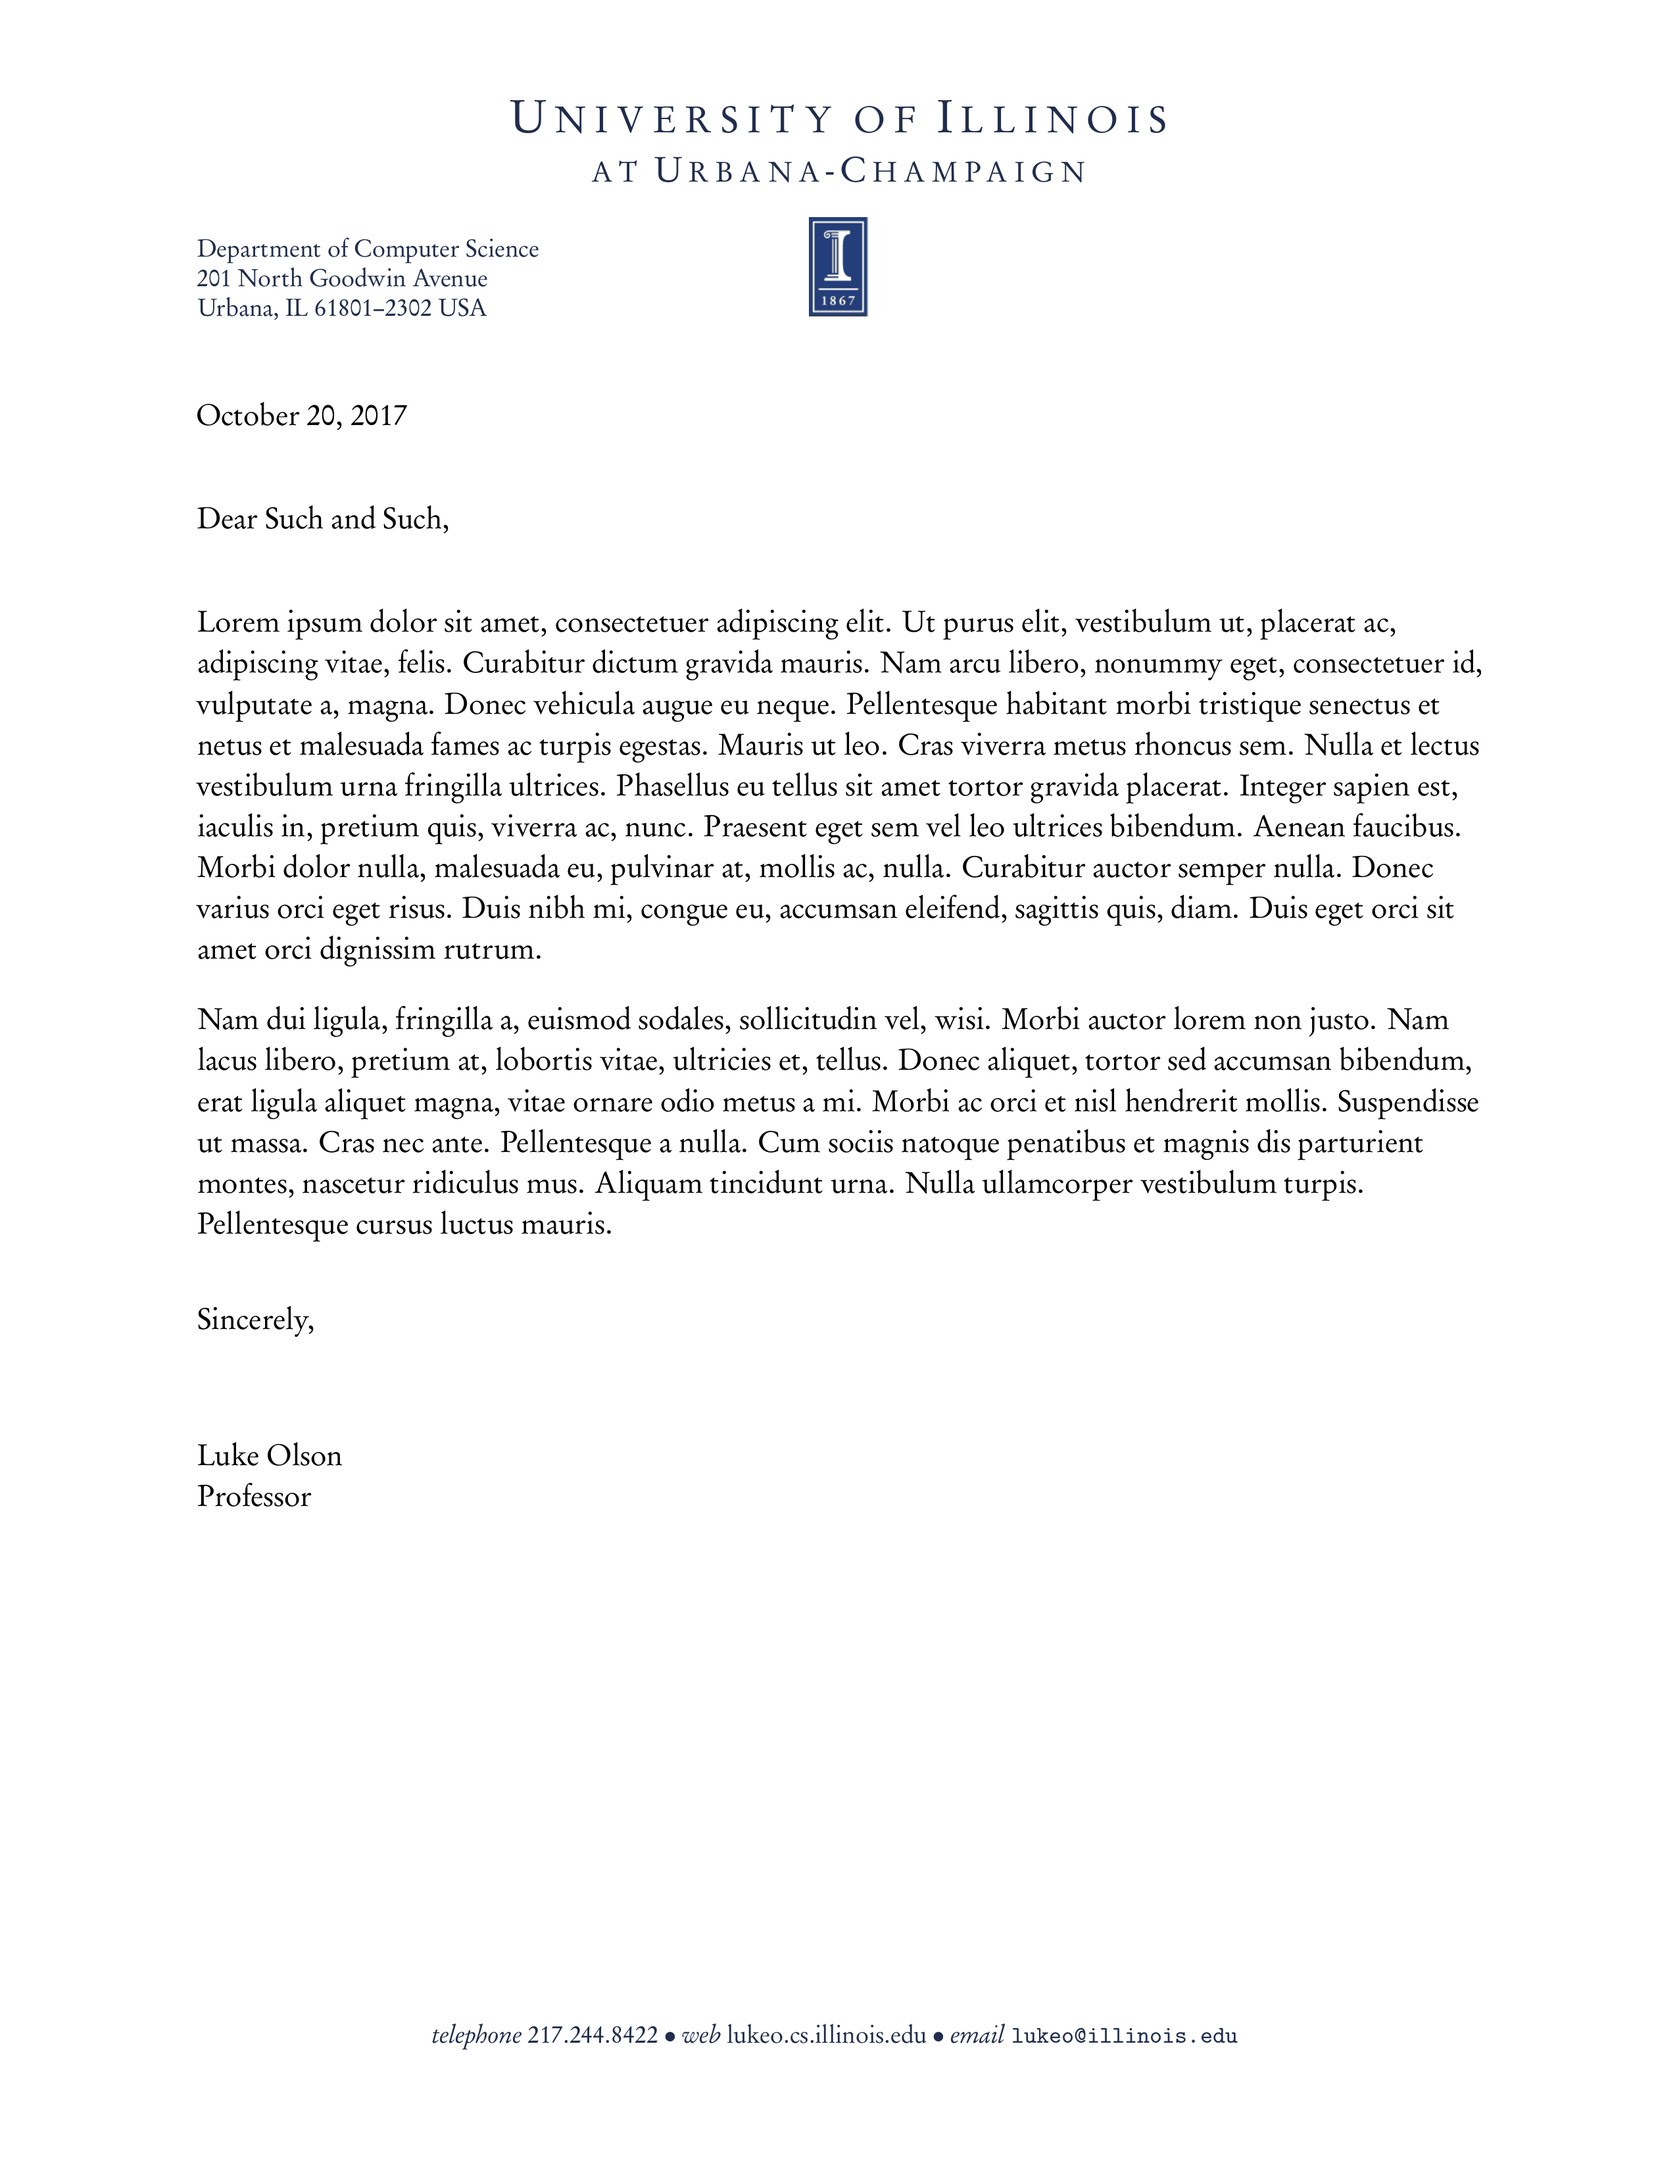
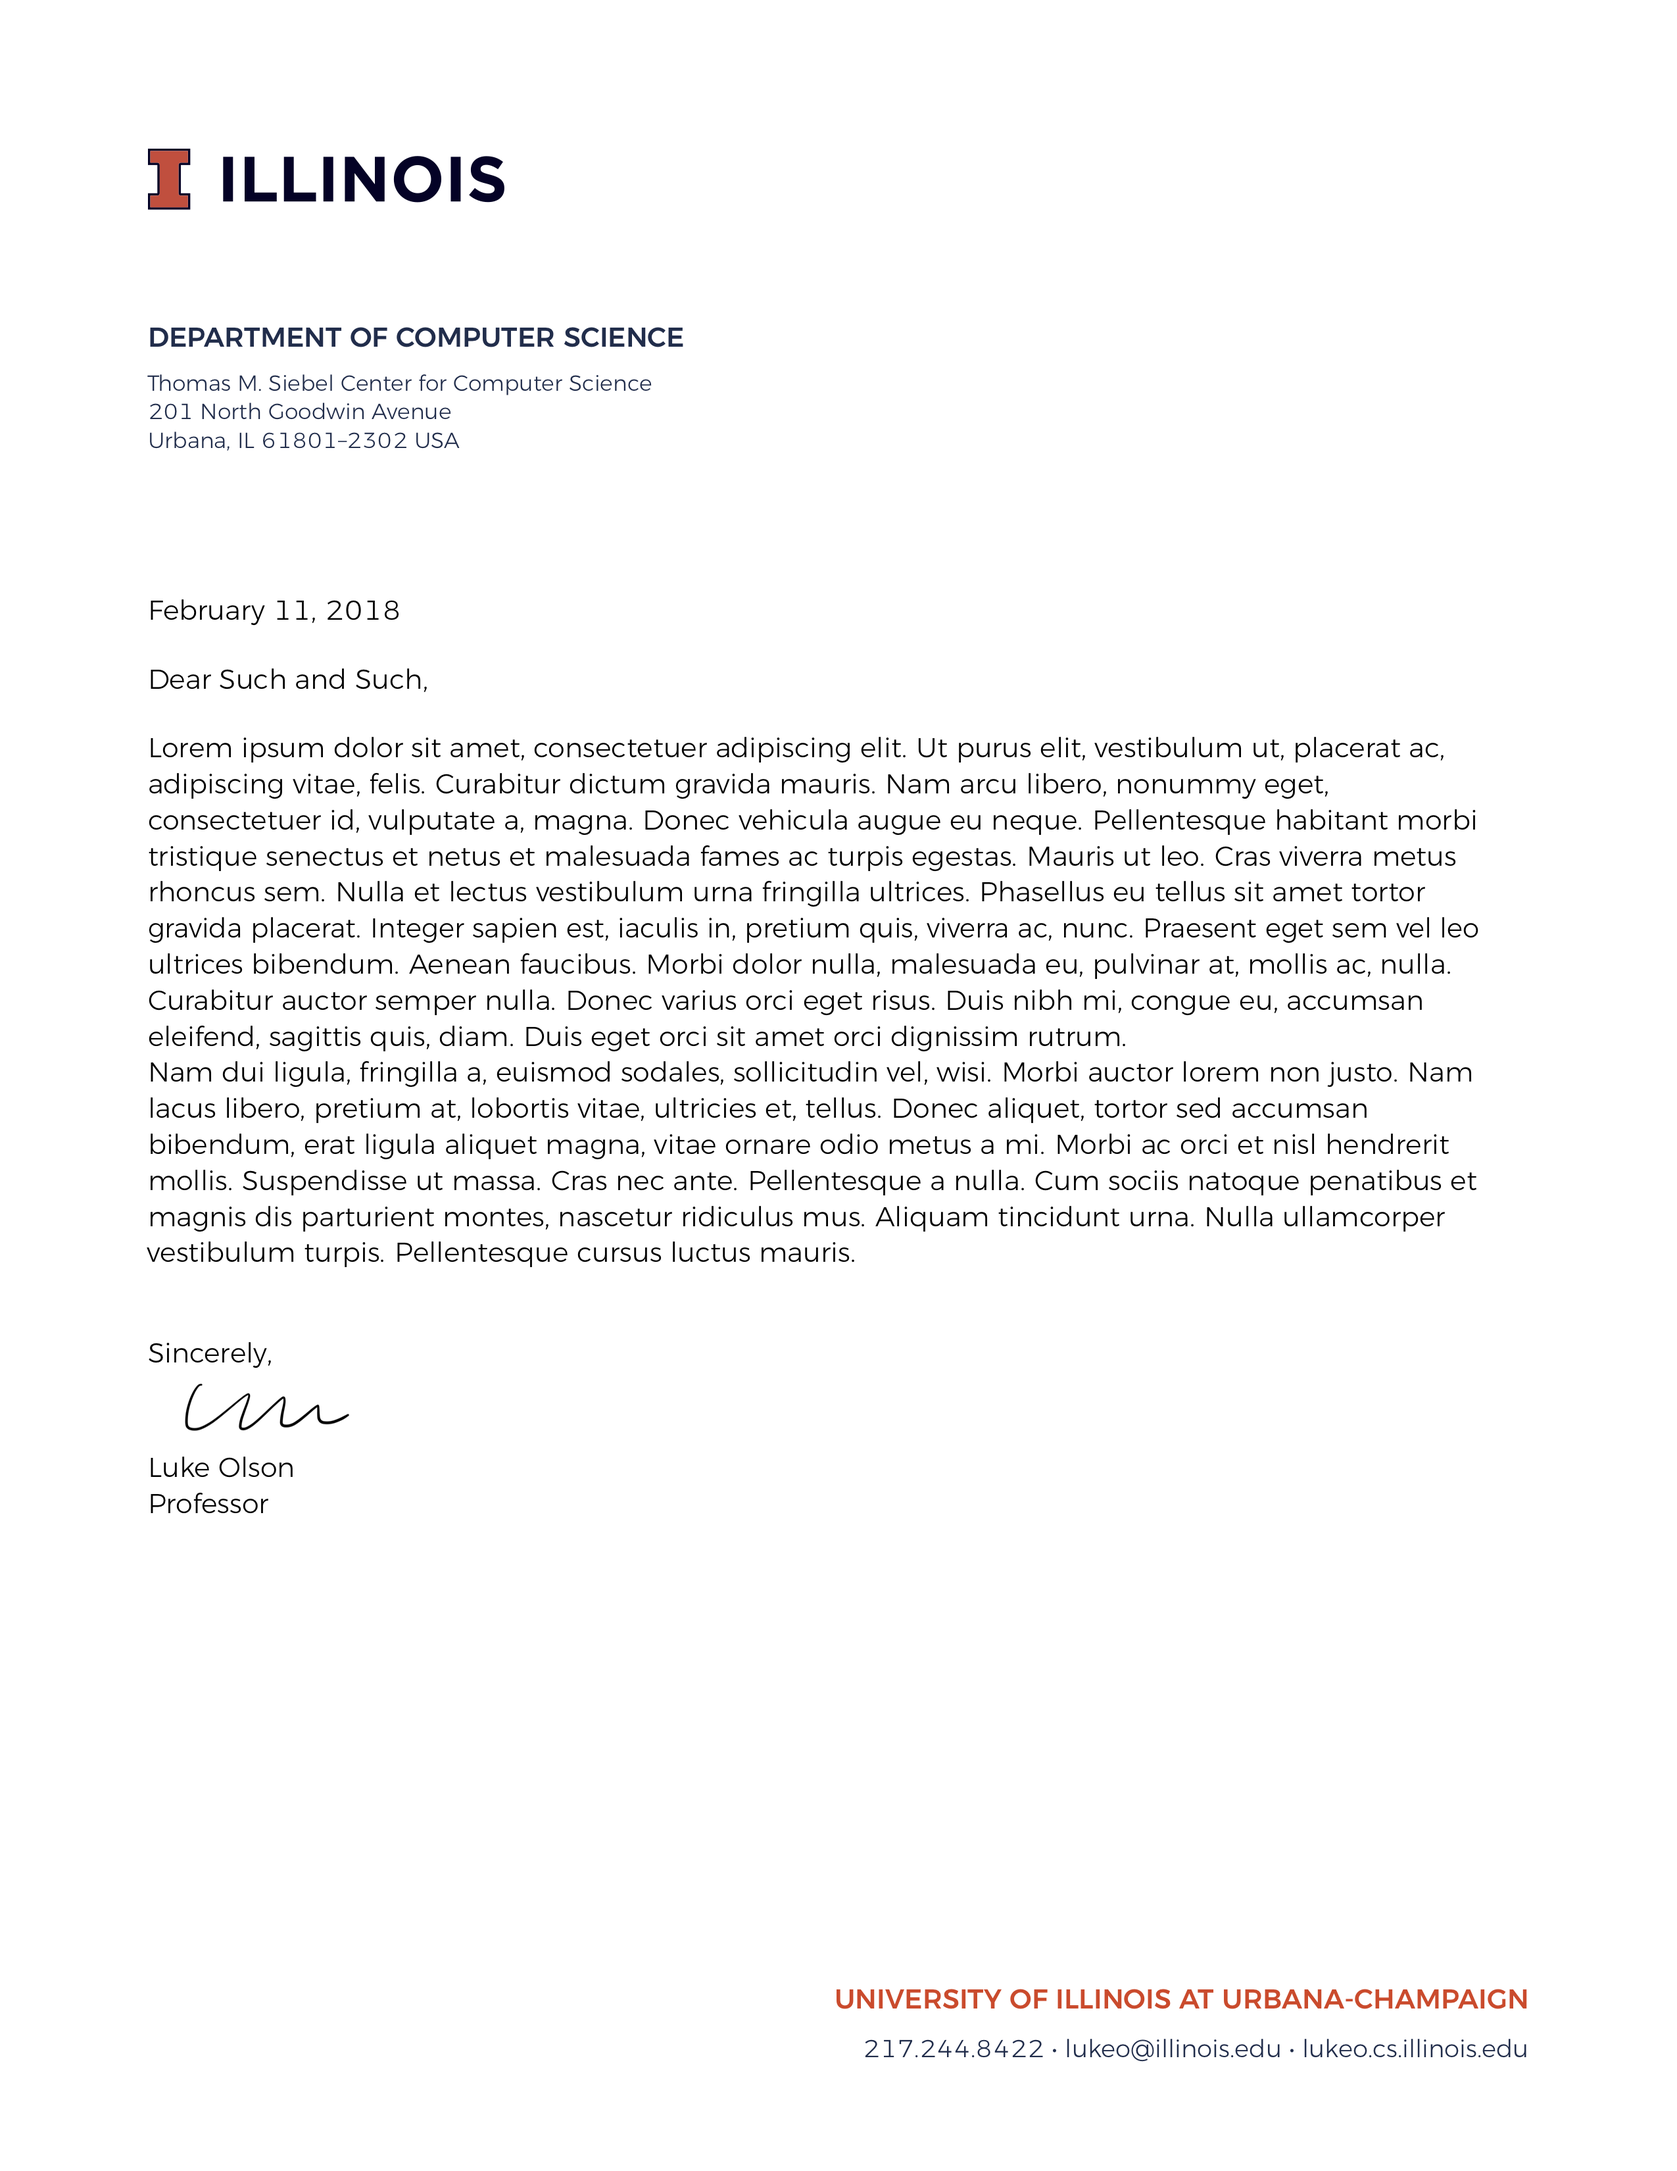
update to new brand

diff --git a/illinois.tex b/illinois.tex
@@ -1,31 +1,39 @@
 % https://tex.stackexchange.com/questions/59932/reproducing-an-official-letterhead
 
 % Colors
-\usepackage[dvinames]{xcolor}
+% blue:   CMYK 100/90/10/77
+% orange: CMYK 01/83/85/0
+%\usepackage[cmyk]{xcolor}
+%\definecolor{UIblue}{cmyk}{1.00, 0.90, 0.10, 0.77}
+%\definecolor{UIorange}{cmyk}{0.01, 0.83, 0.85, 0.00}
+\usepackage[rgb]{xcolor}
 \definecolor{UIblue}{RGB}{19,41,75}
 \definecolor{UIorange}{RGB}{232,74,39}
-
-% logo
-%\providecommand\logofile{imark_1867_bw}
-\providecommand\logofile{imark}
 
 % set page geometry
 \usepackage[top=2in,left=1.0in,bottom=0.5in,right=1.0in]{geometry}
 \usepackage{graphicx}
 
+% logo
+\providecommand\logofile{Illinois-Wordmark-Horizontal-Full-Color-CMYK.pdf}
+
 % remove coloring from URLs
 \usepackage[colorlinks=false,pdfborder={0 0 0}]{hyperref}
+\urlstyle{same}
 
+% to place things in exact places
 %\usepackage[absolute,showboxes]{textpos}
 \usepackage[absolute]{textpos}
-\setlength{\TPHorizModule}{\paperwidth}\setlength{\TPVertModule}{\paperheight}
+
+% for conditionals
 \usepackage{ifthen}
 
-% Use the Garamond URW font if available
-\IfFileExists{mathdesign.sty}{%
-  \usepackage[urw-garamond]{mathdesign}
-}{}
+% load Montserrat font -- this is a close alternative to Gotham
+\usepackage[defaultfam,light,tabular,lining]{montserrat} %% Option 'defaultfam'
+%% only if the base font of the document is to be sans serig
 \usepackage[T1]{fontenc}
+\renewcommand*\oldstylenums[1]{{\fontfamily{Montserrat-TOsF}\selectfont #1}}
+
 \linespread{1.10}
 
 % use microtype to extend spacing
@@ -33,7 +41,6 @@
 
 % Remove paragraph indentation
 \parindent0pt
-\setlength{\parskip}{0.8\baselineskip}
 \raggedright%
 
 % change page style to include header/footer
@@ -42,35 +49,52 @@
 % add stuff to the doc
 \AtBeginDocument{%
     % Top block with logo
-    \begin{textblock*}{\textwidth}[0,0](1.0in,0.5in)
-    {
-      \color{UIblue}
-      \centerline{\fontsize{17}{0.5in}\selectfont\textls[150]{\textsc{University of Illinois}}}
-      \setlength{\baselineskip}{0.25in}
-      \centerline{\fontsize{13}{0.5in}\selectfont\textls[150]{\textsc{at Urbana-Champaign}}}
-      \setlength{\baselineskip}{0.5in}
-    }
-      \begin{center}
-        \includegraphics[height=0.5in]{\logofile}
-      \end{center}
+    \begin{textblock*}{\textwidth}(0.75in,0.75in)
+      \includegraphics[height=0.3125in]{\logofile}
     \end{textblock*}
+
     % Inset department address
-    \begin{textblock*}{4.0in}(1.0in,1.2in)
-        {\fontsize{9}{10.8}\selectfont
+    \begin{textblock*}{4.0in}(0.75in,1.65625in)
+        {%
+         % use medium bold here
         \color{UIblue}
-        \fromdept%
+        \fontsize{10}{12}\selectfont
+        \fontseries{mb}\selectfont
+        \fromdept\\%
+        }
+        \vspace{2mm}
+        {%
+        \color{UIblue}
+        \footnotesize\par
+        %\fontsize{9}{10}\selectfont
+        \fromdeptaddress%
         }
     \end{textblock*}
+
     % footer
-    \begin{textblock*}{\paperwidth}[0,1](0.0in,10.5in)
-      \centering
-    {\fontsize{9}{0}\selectfont\color{UIblue}
-     \textit{telephone} \fromtel\ \textbullet\
-     \textit{web} \fromweb\ \textbullet\
-     \textit{email} \fromemail}
-     \color{black}
+    % specify the top right corner location of the footer
+    \begin{textblock*}{\textwidth}[1.0,0.0](7.75in,9.9375in)
+        {%
+         \begin{flushright}
+         \color{UIorange}
+         \fontseries{mb}\selectfont
+         UNIVERSITY OF ILLINOIS AT URBANA-CHAMPAIGN
+         \end{flushright}
+        }
+        \vspace{-5mm}
+        {%
+         \begin{flushright}
+         \color{UIblue}
+         \fontsize{9}{11}\selectfont
+         \fromtel\ \textbullet\
+         \fromemail\ \textbullet\
+         \fromweb%
+         \end{flushright}
+        }
     \end{textblock*}
-    \newgeometry{top=2in,left=1.0in,bottom=1.2in,right=1.0in}
+
+    % main text
+    \newgeometry{top=3.0in,left=0.75in,bottom=1.2in,right=1.0in}
   }
 
 % add closing to end of the document, if sig is available

diff --git a/template.tex b/template.tex
@@ -1,9 +1,10 @@
-\documentclass[11pt]{article}
+\documentclass[10pt]{article}
 
 \usepackage{lipsum}
 
 % header
-\providecommand\fromdept{Department of Computer Science\\201 North Goodwin Avenue\\Urbana, IL 61801--2302 USA}
+\providecommand\fromdept{DEPARTMENT OF COMPUTER SCIENCE}
+\providecommand\fromdeptaddress{Thomas M. Siebel Center for Computer Science\\201 North Goodwin Avenue\\Urbana, IL 61801--2302 USA\\}
 
 % footer
 \providecommand\fromtel{217.244.8422}
@@ -12,7 +13,7 @@
 
 % closing address
 \providecommand\closing{Sincerely}
-\providecommand\signaturefile{}
+\providecommand\signaturefile{sig.png}
 \providecommand\fromname{Luke Olson\\Professor}
 
 \input{illinois}
